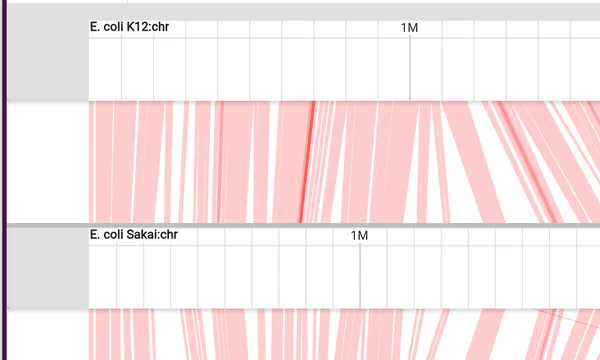
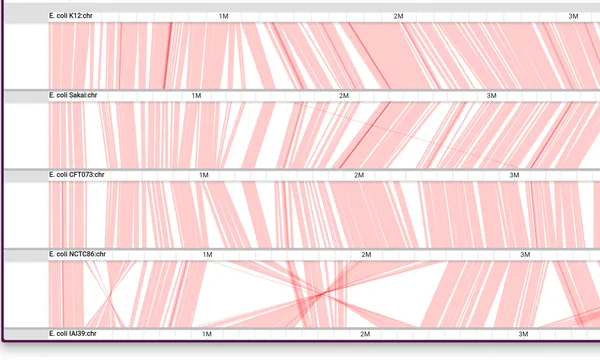
docs(website): zoom out all-vs-all tutorial thumbnail, use graph for HPRC
collapseEmptyRows on the ecoli_pangenome synteny spec drops each row's
"No tracks active" chip to a bare scalebar, so the tutorial-thumb crop
no longer has to dodge it and can show whole-genome width instead of a
narrow slice. Swap the HPRC tutorial thumbnail to the force-directed
Bandage-style graph figure instead of the genotype matrix.

Claude-Session: https://claude.ai/code/session_014TtTKiaj2yrBcjUKmKaV9T

diff --git a/website/scripts/gen-tutorial-thumbs.ts b/website/scripts/gen-tutorial-thumbs.ts
@@ -184,12 +184,13 @@ const THUMB_SPECS: Record<string, ThumbSpec> = {
     xband: [0, 0.36],
   },
   allvsall_synteny: {
-    // The five-strain stack, left third (see multiway_synteny above). Both
-    // one-vs-all figures carry a baked-in callout box, and the whole-genome one
-    // is this tutorial's gallery card anyway.
+    // The five-strain stack, past the app chrome. collapseEmptyRows on this
+    // figure's own spec dropped every row's "No tracks active" chip to a bare
+    // scalebar, so unlike multiway_synteny above there's no centered label to
+    // dodge — the crop can run wide and read as whole-genome zoomed out.
     src: 'multiway_synteny/ecoli_pangenome.png',
-    band: [0.12, 0.435],
-    xband: [0, 0.36],
+    band: [0.17, 1],
+    position: 'left',
   },
   pangenome_ecoli: {
     // Per-strain presence/absence, the projection that replaced the genotype
@@ -219,9 +220,10 @@ const THUMB_SPECS: Record<string, ThumbSpec> = {
     band: [0.55, 1],
   },
   pangenome_hprc: {
-    src: 'hprc2/mhc_clustered.png',
-    band: [0.24, 1],
-    position: 'left',
+    // The classic Bandage force-directed picture of the C4 subgraph, past the
+    // view chrome and the LGV/bubbles lanes above it.
+    src: 'pangenome/hprc_c4_subgraph.png',
+    band: [0.49, 1],
   },
   // The HAL projected onto K12 as a MAF: the coverage band and one colored row
   // per strain, under the K12 gene lane. It used to be this tutorial's variant

diff --git a/website/scripts/specs/synteny.ts b/website/scripts/specs/synteny.ts
@@ -476,6 +476,11 @@ export const syntenySpecs: ScreenshotSpec[] = [
             // clean ribbons instead of a dense noise band
             minAlignmentLength: 10000,
             levelHeights: [110, 110, 110, 110],
+            // None of the five rows carries a track, so every row collapses to
+            // a bare scalebar instead of a ~90px "No tracks active / Open
+            // track selector" block — five of those cost more of the viewport
+            // than the ribbons they're stacked around.
+            collapseEmptyRows: true,
             // No autoDiagonalize. It reorders and flips a level's lower axis,
             // and neither lever applies: each assembly is a single contig, so
             // there is nothing to reorder, and the flip is per-axis rather than
@@ -489,9 +494,9 @@ export const syntenySpecs: ScreenshotSpec[] = [
         ],
       },
     ),
-    // five rows and four 110px bands, sized to them (the four-row version was
-    // 800, and a row costs ~175 including its header)
-    viewportHeight: 1030,
+    // five collapsed scalebar rows and four 110px bands, sized to them
+    // (collapseEmptyRows shrinks each row from ~175px to a bare scalebar)
+    viewportHeight: 715,
     readySelector: '[data-testid="synteny_canvas_done"]',
     readyTimeout: 120000,
     settleMs: 15000,

diff --git a/website/docs/tutorials/allvsall_synteny.md b/website/docs/tutorials/allvsall_synteny.md
@@ -297,6 +297,11 @@ The one-time load settings (row order, tracks, `drawCurves`,
 [ortholog-tables tutorial](/docs/tutorials/multiway_synteny) for a fuller
 walk-through of the `defaultSession` structure.
 
+None of the five rows above carries its own track, so each would otherwise open
+with a "No tracks active" block where its ribbon-only rows are. Add
+`"collapseEmptyRows": true` to `init` to collapse any row with no `tracks` down
+to a bare scalebar instead. The figure below uses it.
+
 The row order here is a free choice. Unlike a reference-anchored `.blocks`
 table, an all-vs-all file is a complete graph, so every adjacent pair you happen
 to stack is a direct alignment rather than a transitive link.
